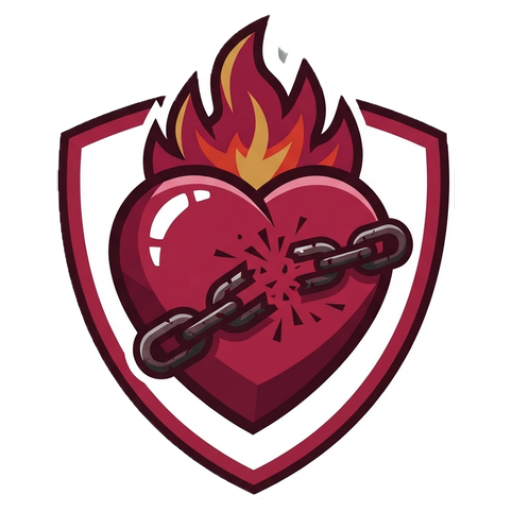
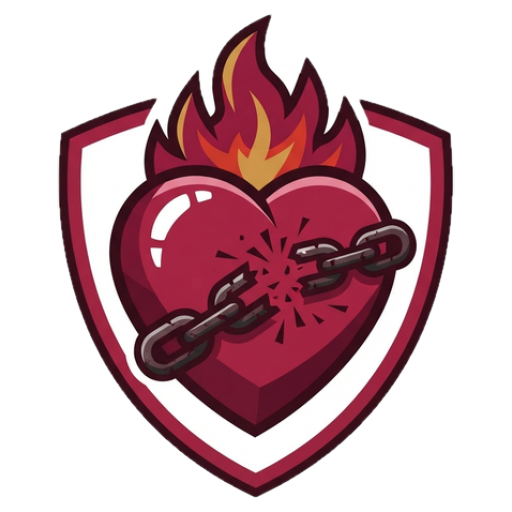
Crests: grey shadow part of the sticker edge cut too (Arsenal with a wider cut)

diff --git a/frontend/src/data/avatars.ts b/frontend/src/data/avatars.ts
@@ -33,7 +33,7 @@ const CLUB_BY_NAME = new Map(
 
 // "?v=" makes phones fetch a crest again after its picture is replaced
 // (Telegram's web view keeps the old file otherwise). Raise it with each new set.
-const CREST_VERSION = '2026-11-24b'
+const CREST_VERSION = '2026-11-24c'
 export const clubBadge = (name?: string | null): string | null => {
   const src = (name && (CLUB_BY_NAME.get(name) || EXTRA_SHIELDS[name])) || null
   return src ? `${src}?v=${CREST_VERSION}` : null
